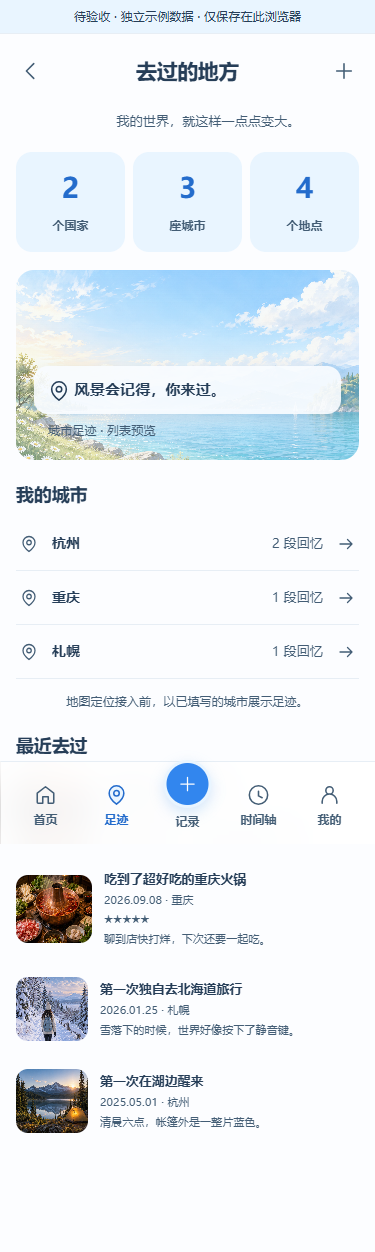
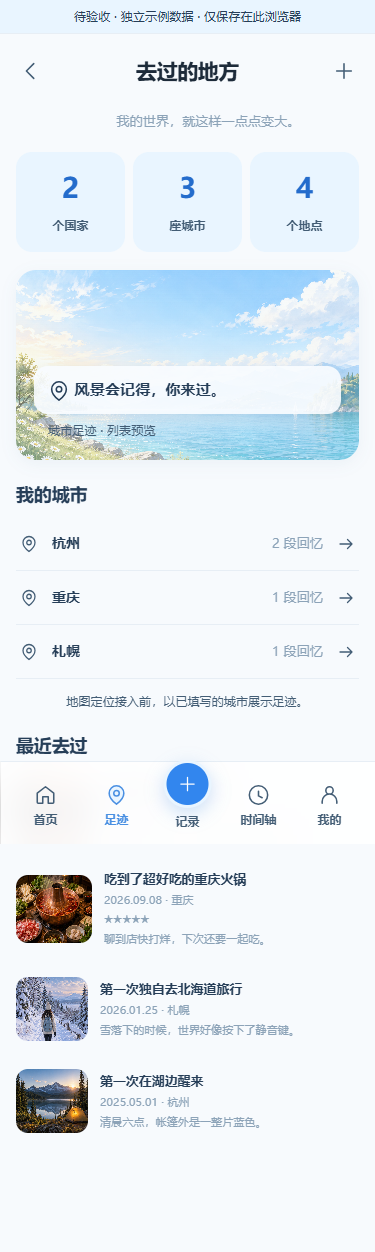
lock review UI design tokens

diff --git a/experience.css b/experience.css
@@ -1,4 +1,4 @@
-/* finesse · register=product · sky-blue · system type · life journal · feedback only */
+/* finesse · register=h5+product · A=sky-blue · B=system-type · C=life-journal · D=feedback-only · E=lake-photography · SOUL=7 SPECTACLE=2 DENSITY=6 */
 /* Semantic tokens and shared components. Cover composition remains in life.css. */
 :root {
  --font-ui:"PingFang SC","Microsoft YaHei UI","Microsoft YaHei","HarmonyOS Sans SC",-apple-system,BlinkMacSystemFont,"Segoe UI",sans-serif;
@@ -168,3 +168,22 @@ h1,h2,h3,.detail-note{overflow-wrap:anywhere;min-width:0}
  .phone .app-header .brand>b{font-size:44px}.phone .app-header .brand>span{font-size:15px}.phone .app-header .brand small{font-size:11px;max-height:20px}
  .phone .app-header.is-compact .brand>b{font-size:32px}.phone .app-header.is-compact .brand>span{font-size:13px}
 }
+
+/* Final token lock · the prototype's visual grammar stays semantic at every route. */
+:root{
+ --color-brand:#4a90e2;--color-brand-press:#347fd2;--color-brand-soft:#eaf4ff;--color-brand-wash:#f4f9ff;
+ --color-bg:#f7fafd;--color-surface:#fcfdff;--color-text-primary:#1d2b3a;--color-text-secondary:#45586a;
+ --color-text-muted:#8ca3b8;--color-text-weak:#aebecc;--color-divider:#edf2f6;
+ --radius-lg:20px;--radius-md:16px;--radius-sm:12px;--space-page:16px;--space-card:12px;
+ --shadow-card-soft:0 4px 16px rgba(49,98,140,.06);--shadow-fab:0 6px 18px rgba(74,144,226,.28);
+}
+.phone{background:var(--color-bg)}
+.page-content{padding-inline:var(--space-page)}
+.life-banner,.wish-banner,.collection-summary,.number-hero,.places-landscape{border-radius:var(--radius-lg);box-shadow:var(--shadow-card-soft)}
+.module,.type-card,.wish-row,.menu-list,.stats>div,.stats>button,.revisit,.search-box{border-radius:var(--radius-md)}
+.record>.photo,.editor-gallery img,.detail-gallery button,.detail-gallery img{border-radius:var(--radius-sm)}
+.page-heading h1,.form-title,.detail-body h2,.timeline-year>h2{color:var(--color-text-primary)}
+.page-subtitle,.record p,.record small,.detail-meta,.wish-row small,.city-list span,.number-grid small,.empty p{color:var(--color-text-muted)}
+.nav-item.active,.pill{color:var(--color-brand)}
+.nav-add .icon{box-shadow:var(--shadow-fab)}
+.phone .app-header{background:rgba(252,253,255,.96)}
